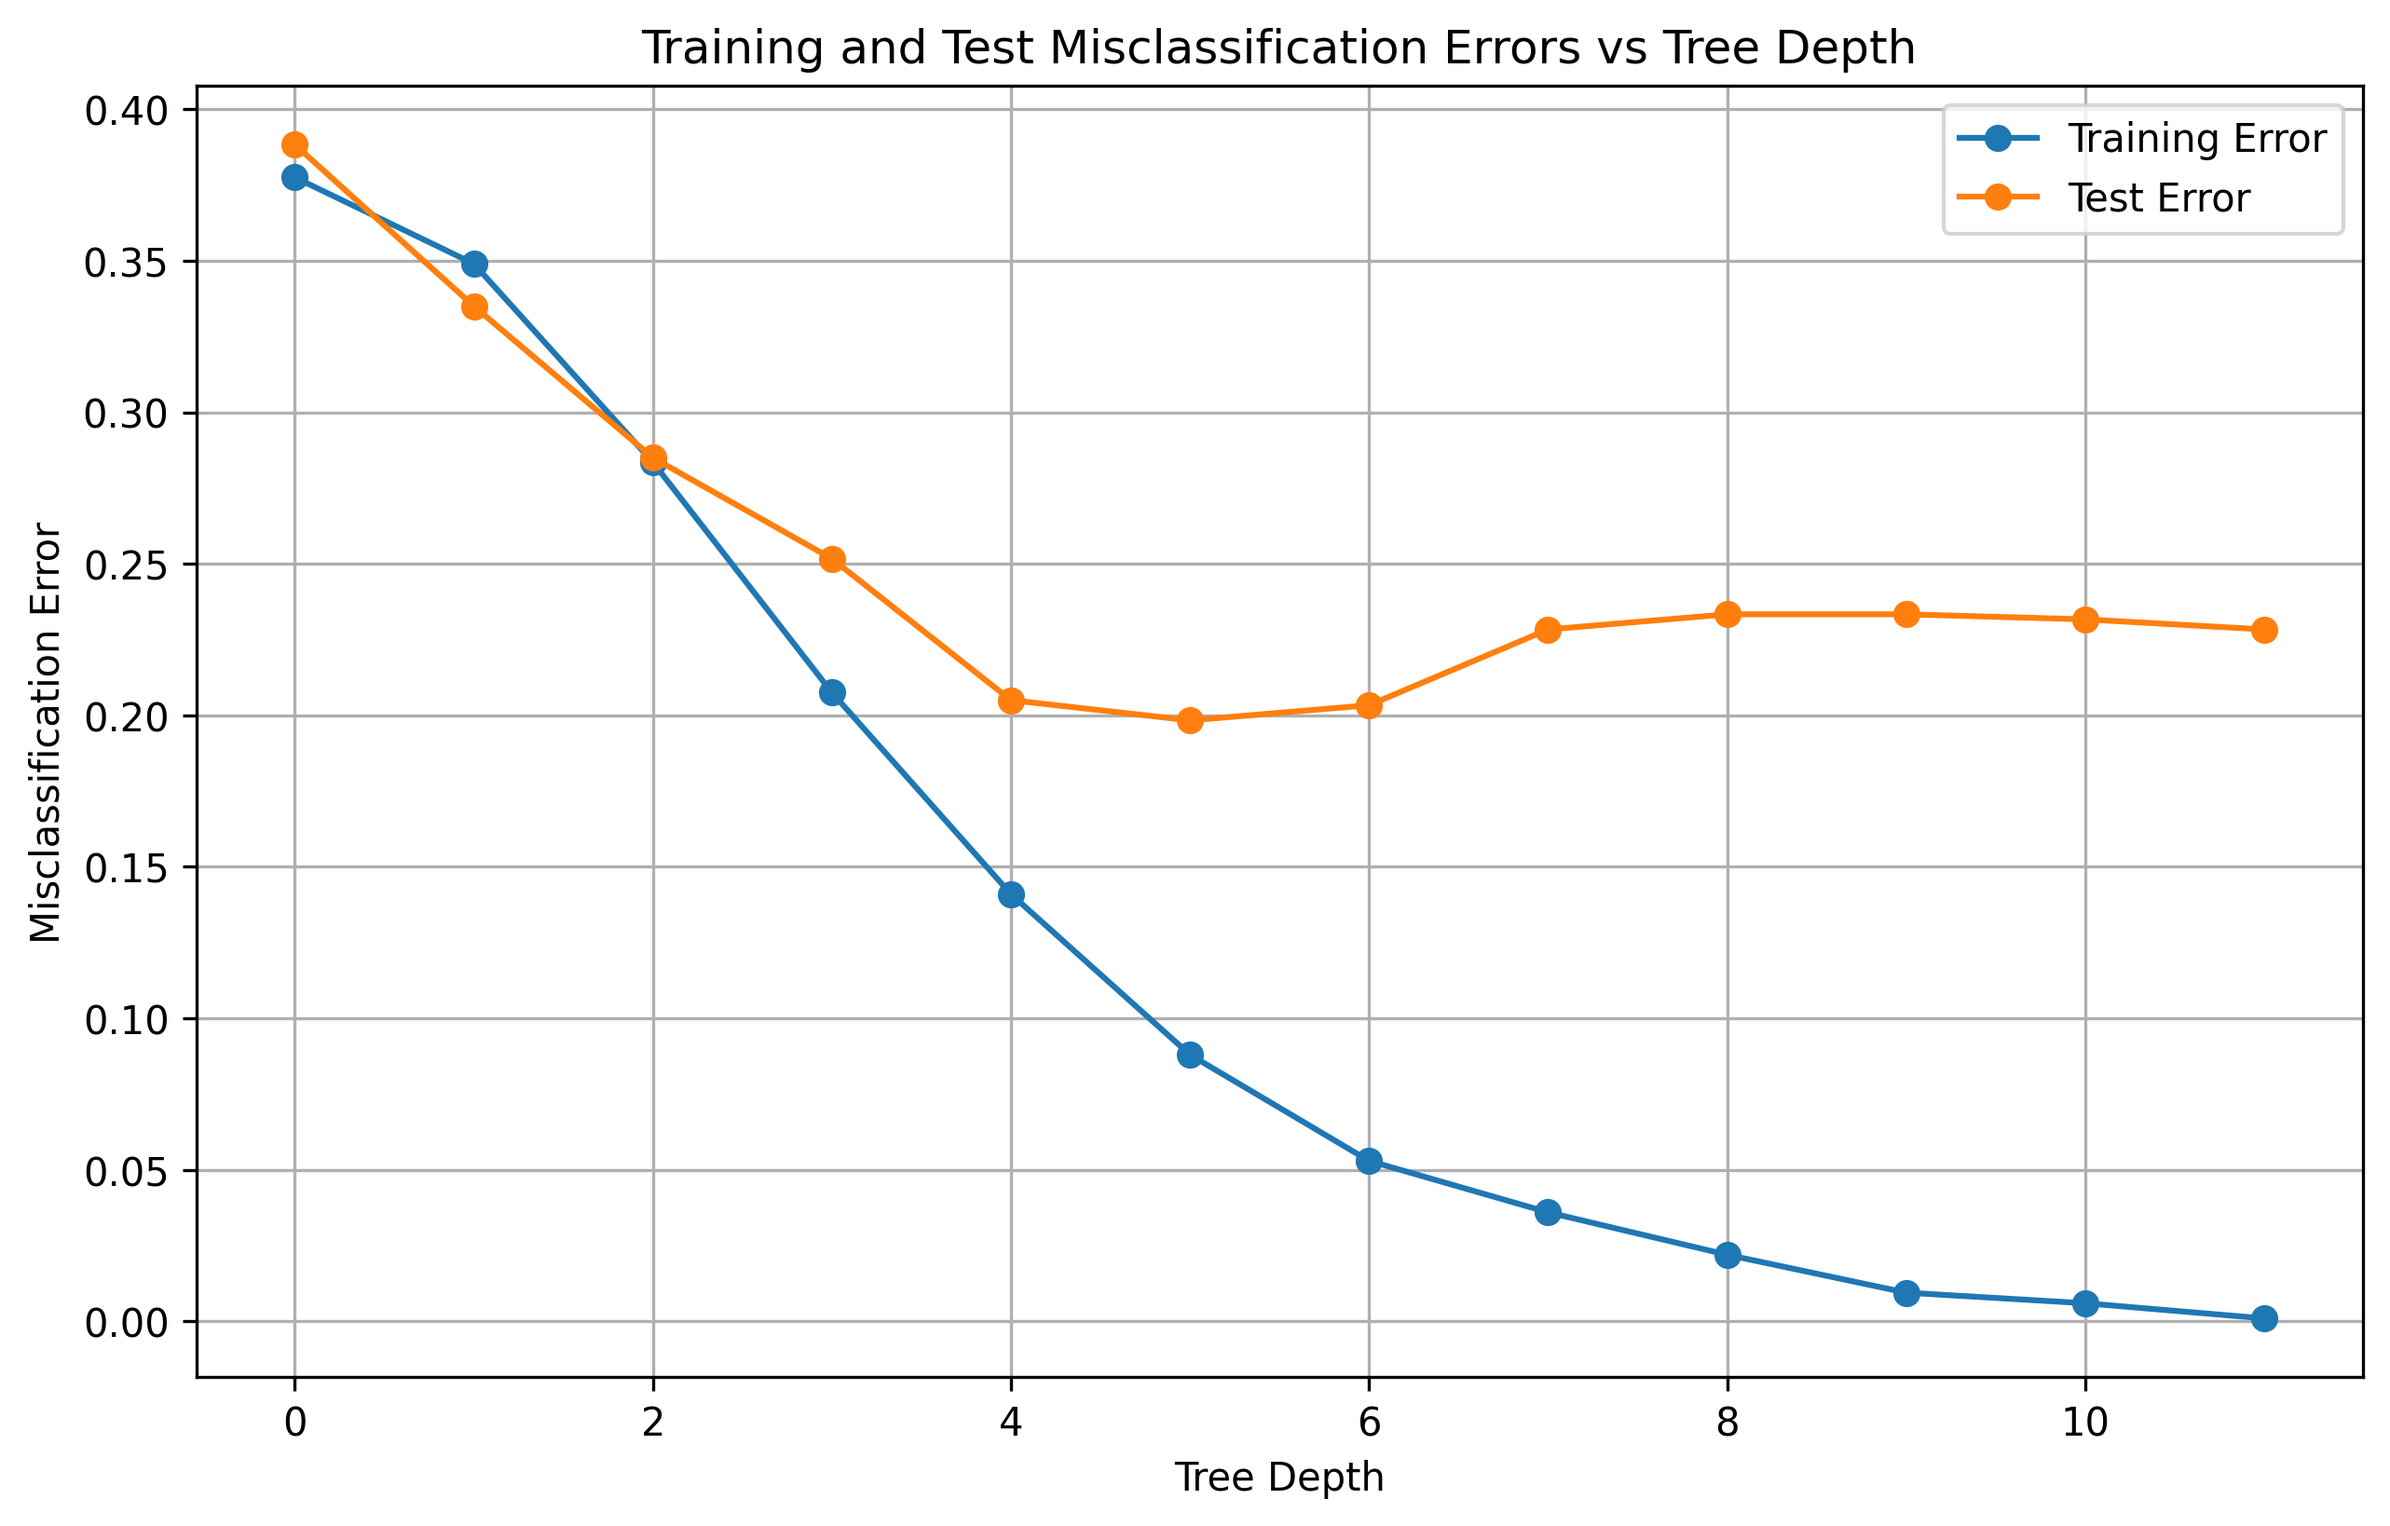
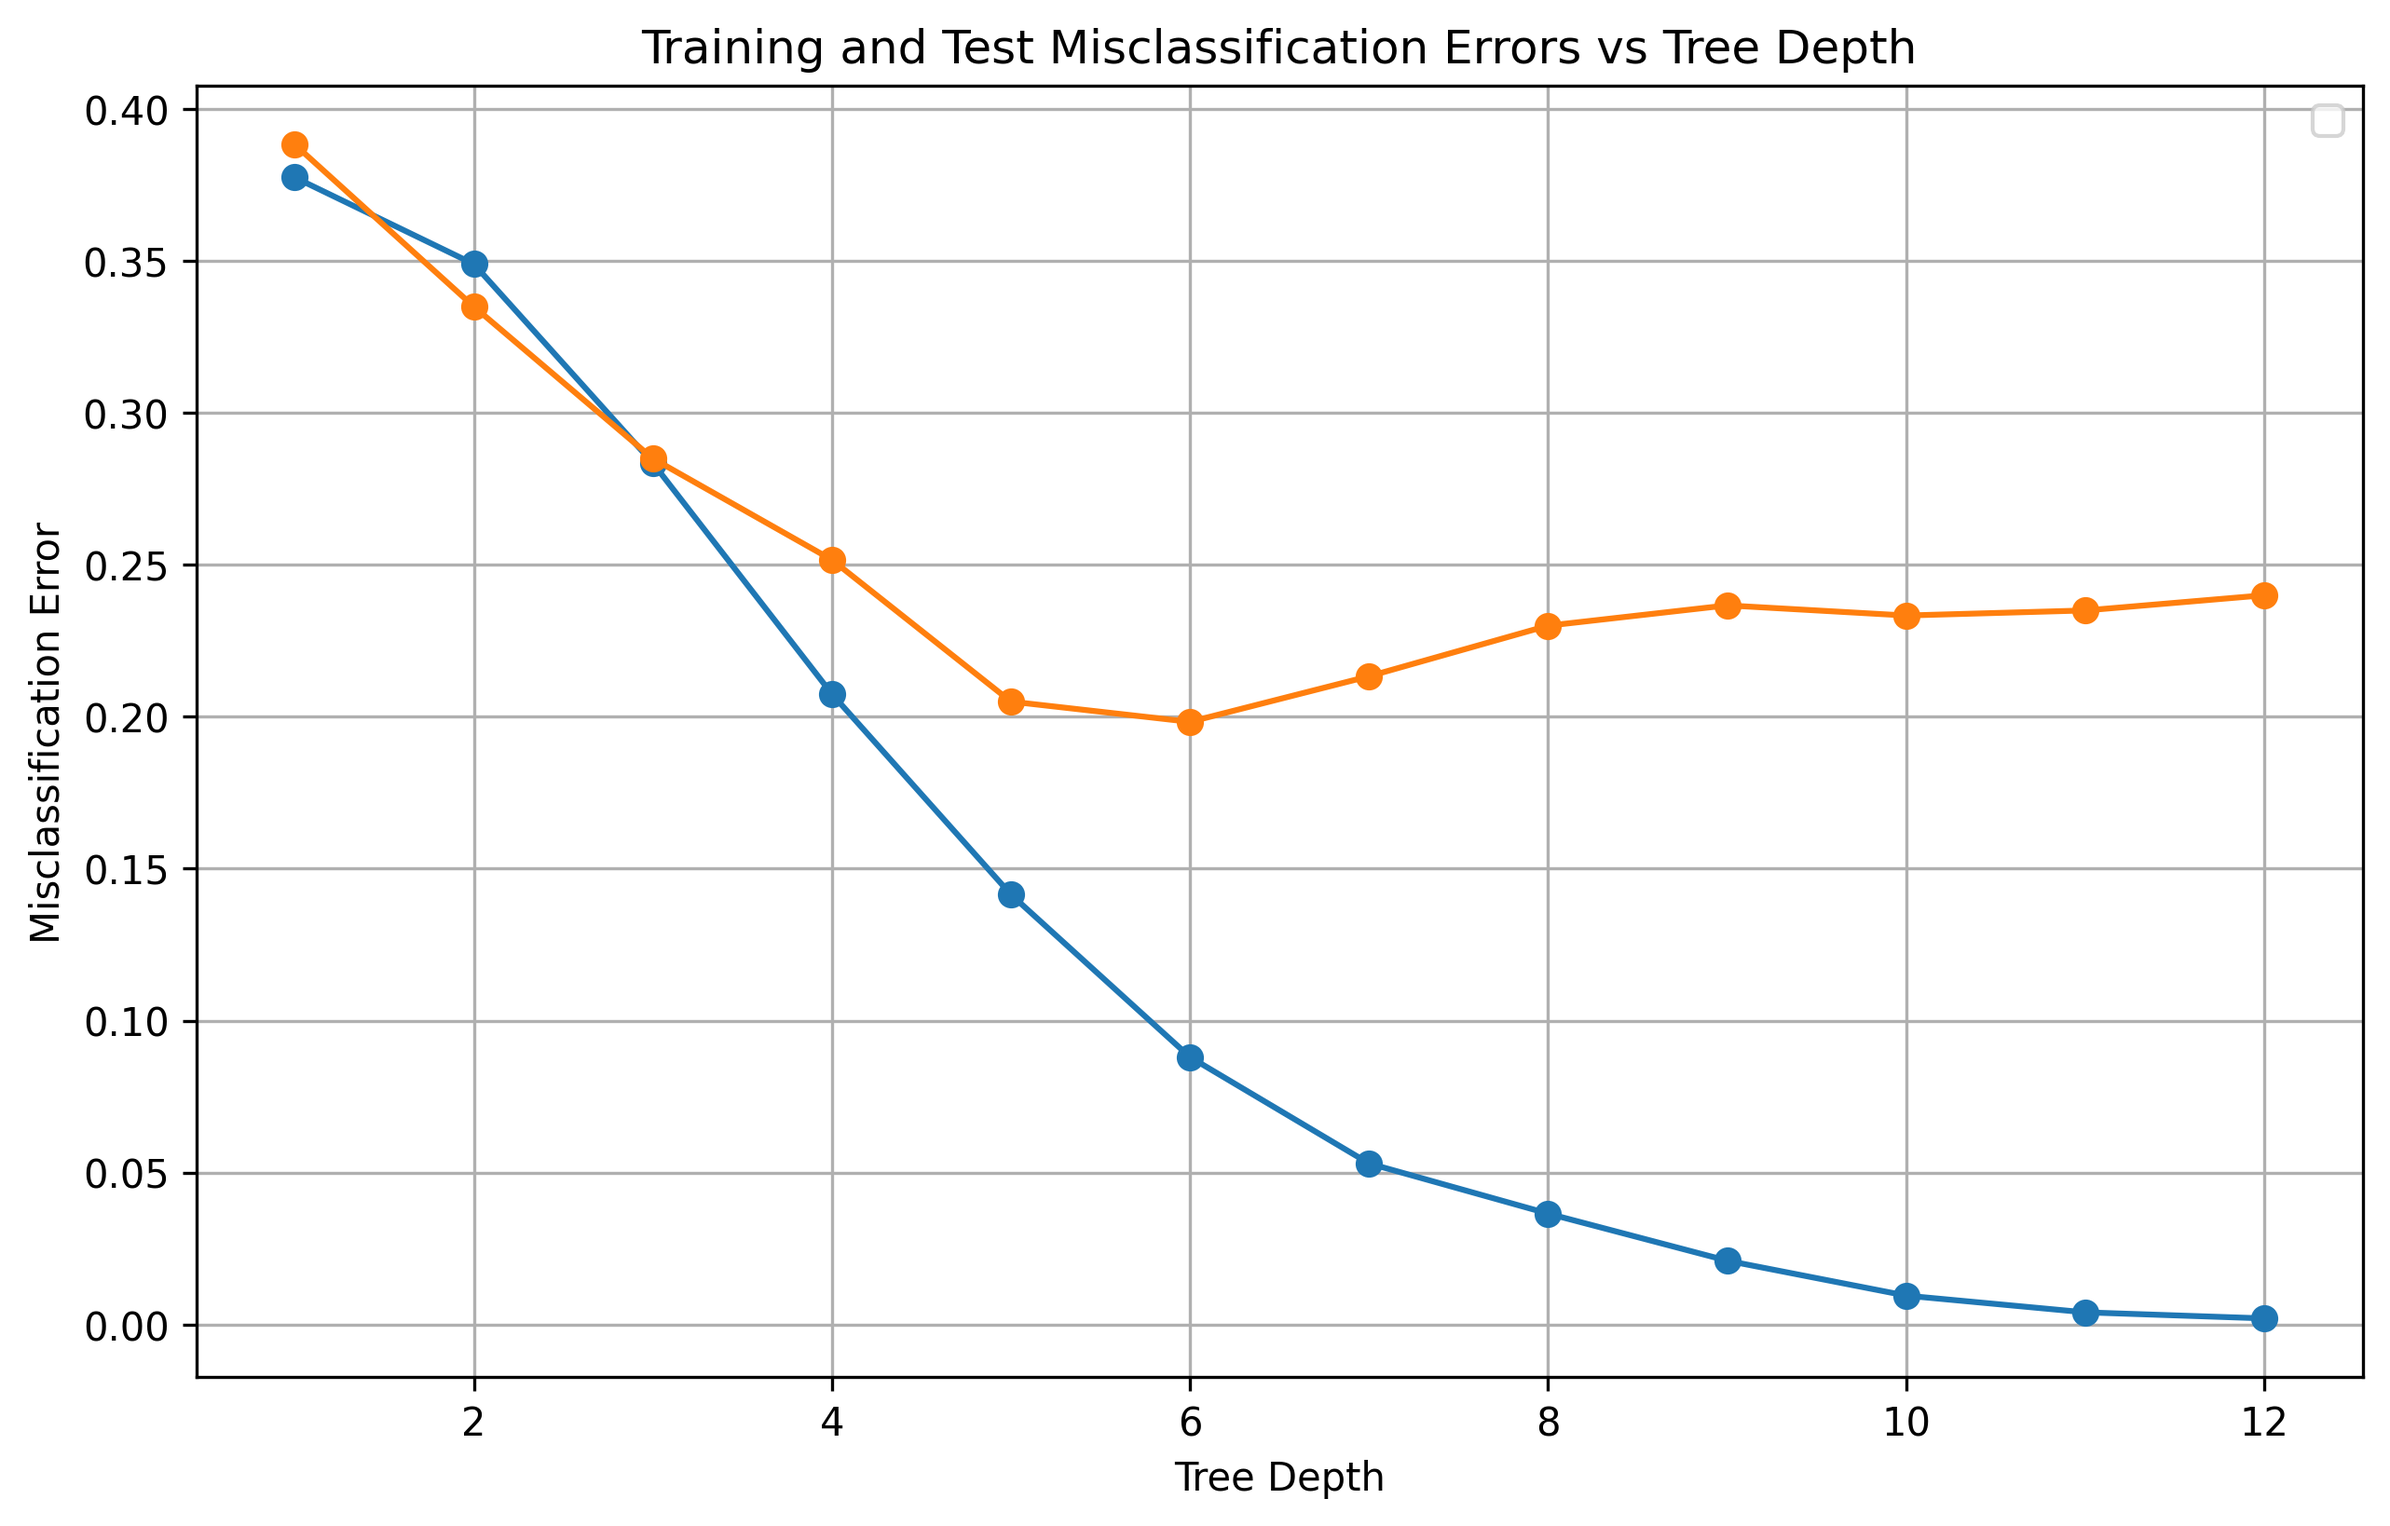
Updated graphs

diff --git a/Machine Learning/HW01/main.py b/Machine Learning/HW01/main.py
@@ -45,8 +45,8 @@ plt.ylabel('Misclassification Error')
 plt.title('Training and Test Misclassification Errors vs Tree Depth')
 plt.legend()
 plt.grid(True)
-plt.plot(train_error, label='Training Error', marker='o')
-plt.plot(test_error, label='Test Error', marker='o')
+plt.plot(range(1,13),train_error, label='Training Error', marker='o')
+plt.plot(range(1,13),test_error, label='Test Error', marker='o')
 plt.show()
 
 #%%
